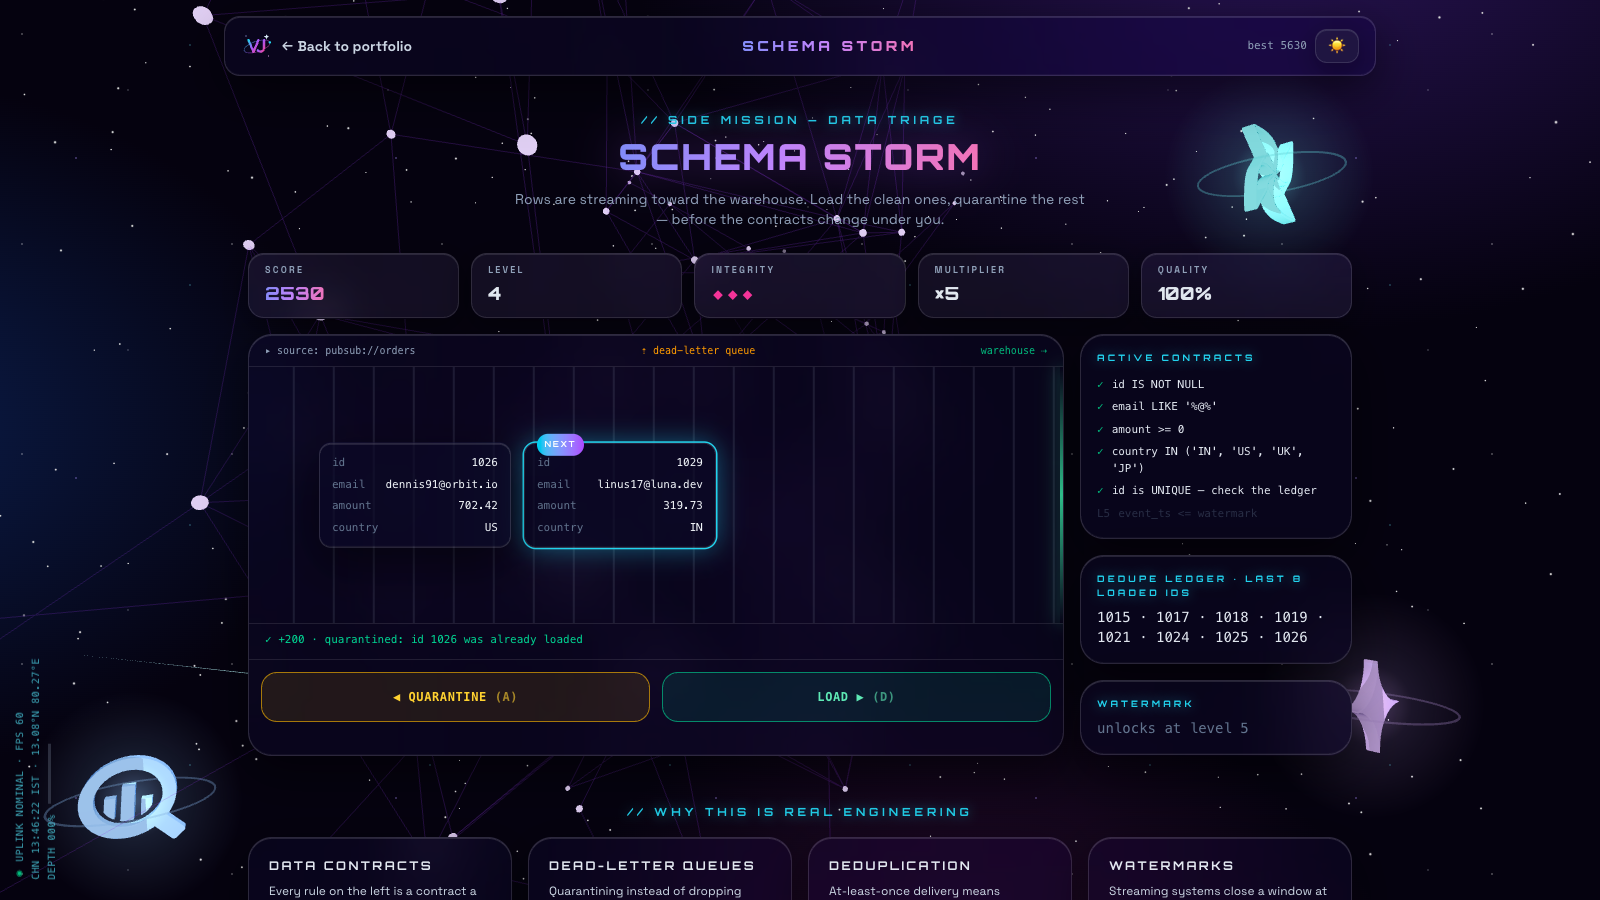
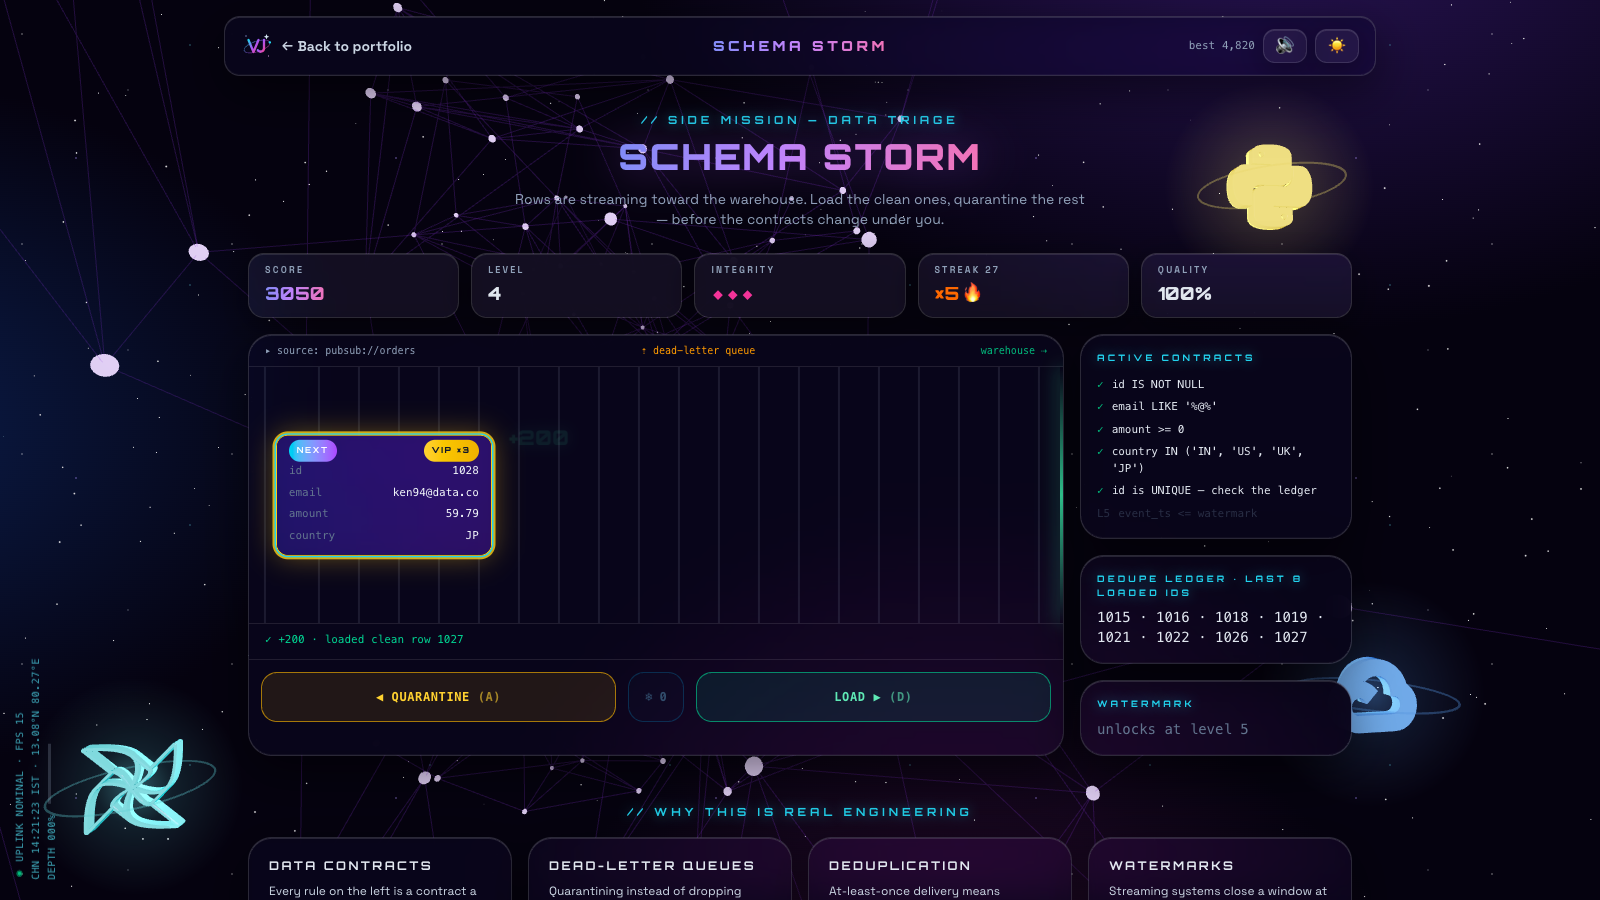
Fix README inaccuracies and document voice, sound and loading screen
Corrections
- Belt direction: left-to-right on desktop, top-to-bottom on phones.
- Reduced motion: interface animations respect it; 3D scenes keep moving.
- Data: telemetry cached 10 minutes, contributions per session, both
  prefetched during loading, both with offline states.
- Live repo badges only on project cards whose repo is public.
- Bot claim scoped to what was verified (through level 6).
- Boot description and debug switch updated (?boot=0, BOOT_MS).

Additions: terminal voice mode, Schema Storm sound and mechanics, the
loading screen, sfx.js in Mission Control, plus refreshed game.png and a
new boot.png screenshot.

diff --git a/README.md b/README.md
@@ -86,8 +86,13 @@ or switch to **Ask in English** and type *"Which projects use Terraform?"*.
 `⌘K` / `Ctrl K` / <code>`</code> opens **VJ-OS**: `help`, `whoami`, `projects`,
 `open <name>`, `goto <section>`, `sql <query>`, `ask <question>`, `resume`,
 `theme`, `play` — with tab completion, history, tap-to-run chips on phones, and a
-few easter eggs. In Chrome, Edge and Safari the **🎙 mic** takes spoken commands
-(*"go to projects"*, *"which projects use dbt"*) via the Web Speech API.
+few easter eggs.
+
+**Voice mode** (Chrome, Edge, Safari — Web Speech API): tap 🎙 and just talk.
+A **live transcript** streams in as you speak, the command runs, the terminal
+**answers out loud** (*"Found 3: Pipewright, Sentinel-Forge and Nexus."*), then
+listens for the next one — hands-free until you tap 🎙 again. The mic pauses while
+it speaks, so it never transcribes itself.
 
 ### ◉ Live telemetry & contribution map
 
@@ -95,10 +100,10 @@ few easter eggs. In Chrome, Edge and Safari the **🎙 mic** takes spoken comman
 
 Public GitHub activity replayed as a **Pub/Sub-style message stream** — each event
 "acked" as it arrives — with repo, star and language stats, and live
-`language · ★ stars · pushed 5d ago` badges on every project card. Below it, the
-**contribution map**: a year of commits as a heatmap (coloured by quartile, like
-GitHub's own), with streak stats — or as a rotating **3D skyline**, one instanced
-tower per day.
+`language · ★ stars · pushed 5d ago` badges on the project cards whose repos are
+public. Below it, the **contribution map**: a year of commits as a heatmap
+(coloured by quartile of active days, similar to GitHub's), with streak stats — or
+as a rotating **3D skyline**, one instanced tower per day.
 
 <img src="docs/skyline.png" alt="Contribution map as a 3D skyline" width="100%" />
 
@@ -106,18 +111,32 @@ tower per day.
 
 <img src="docs/game.png" alt="Schema Storm — rows on a conveyor, active contracts, dedupe ledger" width="100%" />
 
-Rows stream down a conveyor toward the warehouse. **Load** the clean ones,
-**quarantine** the rest to the dead-letter queue — before they hit the gate. Every
-level adds a data contract, and sometimes a column (schema drift): `id IS NOT
-NULL`, `email LIKE '%@%'`, `amount >= 0`, `country IN (…)`, duplicate ids against
-a dedupe ledger, and late events past a watermark. Streaks multiply the score;
-three mistakes halt the pipeline. Keyboard (← / →, A / D), touch buttons, and a
-vertical belt on phones.
+Rows ride a conveyor toward the warehouse — left to right on desktop, top to
+bottom on phones. **Load** the clean ones, **quarantine** the rest to the
+dead-letter queue — before they hit the gate. Every level adds a data contract,
+and sometimes a column (schema drift): `id IS NOT NULL`, `email LIKE '%@%'`,
+`amount >= 0`, `country IN (…)`, duplicate ids against a dedupe ledger, and late
+events past a watermark. Three mistakes halt the pipeline.
+
+What makes it a game, not a quiz:
+
+- **Sound** — a synthesised score (Web Audio, zero files): chimes for loads,
+  thunks for quarantines, a buzz for mistakes, level-up arpeggios and a bass pulse
+  that speeds up every level. `M` or 🔊 mutes.
+- **3 · 2 · 1 · GO** countdown, **score pop-ups** and particle bursts where each
+  row was, **screen shake** and a red flash on mistakes (plus a vibration on Android).
+- **Streak multiplier** up to ×5 (🔥 from ×4), **VIP ×3** rows in gold, a
+  **perfect-level bonus** for clearing a level with no mistakes.
+- **❄ Backfill freeze** — every 10-streak earns a charge (hold up to 2); `F` / `Space` slows the
+  belt to 35% for 5 seconds.
+- **Leaderboard** — your top 5 runs on this device.
+
+Controls: ← / → or A / D, touch buttons on phones, `P` to pause.
 
 The rules live in a React-free module ([`schemaStorm.js`](src/game/schemaStorm.js))
 and are property-tested: across 21,000 generated rows, every broken row fails
-exactly the one contract it was built to break, and a bot reading only what's on
-screen plays it at 100% — so every call is fair.
+exactly the one contract it was built to break. A bot reading only what's on
+screen played through level 6 without a mistake — so every call is fair.
 
 ### 🏆 Mission badges & the 2060 layer
 
@@ -125,11 +144,15 @@ screen plays it at 100% — so every call is fair.
   English, trace lineage, catch the telemetry, use your voice, visit every
   chapter, find the secret command, score 500+ in Schema Storm… with unlock toasts
   and a progress panel in the nav.
-- **Boot sequence** on first visit (skippable, once per session, never for
-  reduced-motion users), a **HUD** running up the left edge (fps, Chennai time,
-  uplink, scroll depth), a **targeting reticle** that locks onto controls, a
-  **scroll-progress bar** and active-section nav, pointer-tracked **spotlight and
-  3D tilt** on cards, and count-up hero stats.
+- A **5-second loading screen** on every page load — and it's never idle: while
+  it runs it fetches the GitHub telemetry and contribution data, and the boot log
+  reports what actually came back. Any key or tap skips it.
+- A **HUD** running up the left edge (fps, Chennai time, uplink, scroll depth), a
+  **targeting reticle** that locks onto controls, a **scroll-progress bar** and
+  active-section nav, pointer-tracked **spotlight and 3D tilt** on cards, and
+  count-up hero stats.
+
+<img src="docs/boot.png" alt="The loading screen — boot log with live GitHub results" width="100%" />
 
 <div align="center">
 <img src="docs/projects.png" alt="Missions — draggable 3D project artifacts with live repo badges" width="100%" />
@@ -142,8 +165,9 @@ screen plays it at 100% — so every call is fair.
 | **Two WebGL contexts, total** | One background canvas + one shared overlay canvas rendering the pipeline, every project stage and the contribution skyline as scissored drei `<View>`s — immune to browser context-loss |
 | **FrostGL** | macOS-grade glassmorphism on every OS: where `backdrop-filter` can't be trusted (most Windows/Linux GPU configs), the background scene is gaussian-blurred in WebGL and composited back under each glass panel's rounded rect, tracked live from the DOM (fixed nav first, unrevealed panels skipped) |
 | **Capability ladder** | Real GPU → native blur or FrostGL · software GPU → CSS frost plate · no WebGL at all → CSS starfield + designed DOM fallbacks. Nobody sees an empty box |
-| **Live data, politely** | GitHub REST + a public contributions API, one request each per session (cached in `sessionStorage`), with offline/rate-limit states instead of blank panels |
-| **Motion with manners** | Every animation — boot, reticle, tilt, flowing edges, belts, toasts — respects `prefers-reduced-motion`; tilt and reticle only on precise pointers |
+| **Live data, politely** | GitHub REST (cached 10 minutes) and a public contributions API (cached for the session) in `sessionStorage`, prefetched during the loading screen, with offline/rate-limit messages instead of blank panels |
+| **Motion with manners** | Interface animations — boot, reticle, tilt, flowing edges, belts, pop-ups, toasts — respect `prefers-reduced-motion`, and tilt and reticle only run on precise pointers. The 3D scenes (background, pipeline, project models, skyline) keep moving |
+| **Frost-plate safe** | On machines without GPU blur, the frost fallback keeps absolutely/fixed-positioned glass (game cards, badge panel) where it belongs |
 | **Route-split** | `/play` is lazy-loaded, so the game costs the portfolio nothing until someone opens it |
 | **PWA** | Installable, offline-capable, custom VJ monogram as app icon, self-hosted fonts |
 
@@ -158,7 +182,8 @@ npm run preview  # test the production build locally
 ```
 
 **Debug switches:** `?frostgl=1` / `?frostgl=0` force the WebGL frost on/off ·
-`?boot` replays the boot sequence. The console prints
+`?boot=0` skips the loading screen (its length is `BOOT_MS` in
+[`Future.jsx`](src/components/Future.jsx)). The console prints
 `[vj-portfolio] webgl=… frostgl=… backdrop=…` on every load.
 
 ## `// CHAPTER 05 — MISSION CONTROL`
@@ -171,7 +196,8 @@ All content is data, not markup. Edit these and the site rebuilds itself:
 | [`src/data/skills.js`](src/data/skills.js) | Skill tiles, brand logos, and the aliases that drive lineage |
 | [`src/data/lineage.js`](src/data/lineage.js) | Skill → project/role edges (derived — no hand edits) |
 | [`src/data/tables.js`](src/data/tables.js) | Query Console tables (derived) + preset queries |
-| [`src/game/schemaStorm.js`](src/game/schemaStorm.js) | Schema Storm contracts, levels and pacing |
+| [`src/game/schemaStorm.js`](src/game/schemaStorm.js) | Schema Storm contracts, levels, pacing and leaderboard |
+| [`src/game/sfx.js`](src/game/sfx.js) | Schema Storm sound effects and bass pulse |
 | [`src/utils/achievements.js`](src/utils/achievements.js) | Mission badges |
 | [`src/data/logos3d.js`](src/data/logos3d.js) | The floating 3D logo pool |
 | [`src/data/socials.js`](src/data/socials.js) | Contact / social marks |
